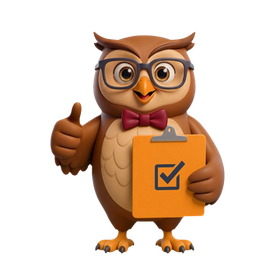
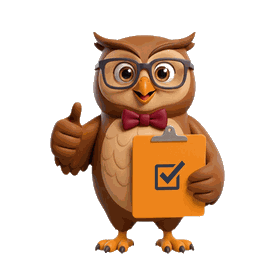
Center the owl on compare loading and drop the server stack.
Bake the mascot onto white/black overlays and sit a pulsing gray
contact shadow under its feet so it reads as a small 3D character.

diff --git a/mobile/components/home/LoadingOverlay.tsx b/mobile/components/home/LoadingOverlay.tsx
@@ -20,86 +20,67 @@ const THUMBS_LIGHT = require("../../assets/mascot/owl-thumbs-light.gif");
 const THUMBS_DARK = require("../../assets/mascot/owl-thumbs-dark.gif");
 const WALK_STILL = require("../../assets/mascot/owl-walk-still.png");
 const THUMBS_STILL = require("../../assets/mascot/owl-thumbs-still.png");
+const SHADOW_LIGHT = require("../../assets/mascot/owl-shadow-light.png");
+const SHADOW_DARK = require("../../assets/mascot/owl-shadow-dark.png");
 
 const THUMBS_MS = 2000;
 const THUMBS_CAP_MS = 2600;
 
-function ServerStack({ colors }: { colors: any }) {
-  const progress = useRef(new Animated.Value(0)).current;
-  const pulse = useRef(new Animated.Value(0)).current;
+function GroundShadow({
+  isDark,
+  phase,
+  reduceMotion,
+}: {
+  isDark: boolean;
+  phase: "loading" | "success";
+  reduceMotion: boolean;
+}) {
+  const pulse = useRef(new Animated.Value(0.5)).current;
 
   useEffect(() => {
-    Animated.loop(
-      Animated.timing(progress, {
-        toValue: 1,
-        duration: 900,
-        easing: Easing.linear,
-        useNativeDriver: true,
-      })
-    ).start();
-
-    Animated.loop(
+    if (reduceMotion) {
+      pulse.setValue(0.5);
+      return;
+    }
+    pulse.setValue(0);
+    const dur = phase === "success" ? 900 : 520;
+    const loop = Animated.loop(
       Animated.sequence([
-        Animated.timing(pulse, { toValue: 1, duration: 500, useNativeDriver: true }),
-        Animated.timing(pulse, { toValue: 0, duration: 500, useNativeDriver: true }),
+        Animated.timing(pulse, {
+          toValue: 1,
+          duration: dur,
+          easing: Easing.inOut(Easing.sin),
+          useNativeDriver: true,
+        }),
+        Animated.timing(pulse, {
+          toValue: 0,
+          duration: dur,
+          easing: Easing.inOut(Easing.sin),
+          useNativeDriver: true,
+        }),
       ])
-    ).start();
-  }, [progress, pulse]);
+    );
+    loop.start();
+    return () => {
+      loop.stop();
+      pulse.stopAnimation();
+    };
+  }, [phase, reduceMotion, pulse]);
 
-  const translateY = progress.interpolate({
+  const scaleX = pulse.interpolate({ inputRange: [0, 1], outputRange: [0.84, 1.06] });
+  const scaleY = pulse.interpolate({ inputRange: [0, 1], outputRange: [0.9, 1.1] });
+  const opacity = pulse.interpolate({
     inputRange: [0, 1],
-    outputRange: [0, -36],
+    outputRange: isDark ? [0.42, 0.78] : [0.38, 0.72],
   });
-
-  const topOpacity = progress.interpolate({
-    inputRange: [0, 0.8, 1],
-    outputRange: [1, 0, 0],
-  });
-  const topScale = progress.interpolate({
-    inputRange: [0, 1],
-    outputRange: [1, 0.85],
-  });
-
-  const bottomOpacity = progress.interpolate({
-    inputRange: [0, 0.2, 1],
-    outputRange: [0, 1, 1],
-  });
-  const bottomScale = progress.interpolate({
-    inputRange: [0, 1],
-    outputRange: [0.85, 1],
-  });
-
-  const led = pulse.interpolate({ inputRange: [0, 1], outputRange: [0.3, 1] });
-
-  const renderBlock = (opacity: any, scale: any) => (
-    <Animated.View
-      style={[
-        styles.serverBlock,
-        {
-          borderColor: colors.spotify,
-          backgroundColor: colors.spotifyWash,
-          opacity,
-          transform: [{ scale }],
-        },
-      ]}
-    >
-      <View style={{ flexDirection: "row", gap: 6 }}>
-        <View style={[styles.serverLine, { width: 24, backgroundColor: colors.spotify }]} />
-        <View style={[styles.serverLine, { width: 12, backgroundColor: colors.spotify }]} />
-      </View>
-      <Animated.View style={[styles.serverLed, { backgroundColor: colors.spotify, opacity: led }]} />
-    </Animated.View>
-  );
 
   return (
-    <View style={styles.serverContainer}>
-      <Animated.View style={{ transform: [{ translateY }] }}>
-        {renderBlock(topOpacity, topScale)}
-        {renderBlock(1, 1)}
-        {renderBlock(1, 1)}
-        {renderBlock(bottomOpacity, bottomScale)}
-      </Animated.View>
-    </View>
+    <Animated.View
+      pointerEvents="none"
+      style={[styles.shadow, { opacity, transform: [{ scaleX }, { scaleY }] }]}
+    >
+      <Image source={isDark ? SHADOW_DARK : SHADOW_LIGHT} style={styles.shadowImg} resizeMode="contain" />
+    </Animated.View>
   );
 }
 
@@ -120,32 +101,36 @@ function OwlMascot({
       scale.setValue(1);
       return;
     }
-    scale.setValue(0.92);
+    scale.setValue(0.94);
     Animated.spring(scale, { toValue: 1, friction: 6, tension: 120, useNativeDriver: true }).start();
   }, [phase, reduceMotion, scale]);
 
-  const source = reduceMotion || gifFailed
-    ? phase === "success"
-      ? THUMBS_STILL
-      : WALK_STILL
-    : phase === "success"
-      ? isDark
-        ? THUMBS_DARK
-        : THUMBS_LIGHT
-      : isDark
-        ? WALK_DARK
-        : WALK_LIGHT;
+  const source =
+    reduceMotion || gifFailed
+      ? phase === "success"
+        ? THUMBS_STILL
+        : WALK_STILL
+      : phase === "success"
+        ? isDark
+          ? THUMBS_DARK
+          : THUMBS_LIGHT
+        : isDark
+          ? WALK_DARK
+          : WALK_LIGHT;
 
   return (
-    <Animated.View style={[styles.mascotWrap, { transform: [{ scale }] }]}>
-      <Image
-        source={source}
-        style={styles.mascot}
-        resizeMode="contain"
-        accessibilityLabel={phase === "success" ? "Comparison ready" : "Owl checking products"}
-        onError={() => setGifFailed(true)}
-      />
-    </Animated.View>
+    <View style={styles.stage}>
+      <GroundShadow isDark={isDark} phase={phase} reduceMotion={reduceMotion} />
+      <Animated.View style={[styles.mascotLift, { transform: [{ scale }] }]}>
+        <Image
+          source={source}
+          style={styles.mascot}
+          resizeMode="contain"
+          accessibilityLabel={phase === "success" ? "Comparison ready" : "Owl checking products"}
+          onError={() => setGifFailed(true)}
+        />
+      </Animated.View>
+    </View>
   );
 }
 
@@ -246,7 +231,7 @@ export function LoadingOverlay({
         style={[
           styles.screen,
           {
-            backgroundColor: isDark ? "#2A2A2A" : "#D8D8D4",
+            backgroundColor: isDark ? "#000000" : "#FFFFFF",
             paddingTop: insets.top,
             paddingBottom: insets.bottom,
           },
@@ -254,7 +239,6 @@ export function LoadingOverlay({
       >
         <View style={styles.content}>
           <OwlMascot phase={phase} isDark={isDark} reduceMotion={reduceMotion} />
-          <ServerStack colors={colors} />
           <Animated.Text style={[styles.message, { opacity: phase === "success" ? 1 : msgOpacity, color: colors.ink }]}>
             {message}
           </Animated.Text>
@@ -279,43 +263,35 @@ const styles = StyleSheet.create({
     justifyContent: "center",
   },
   content: { alignItems: "center", width: "100%", paddingHorizontal: 40 },
-  mascotWrap: {
-    width: 132,
-    height: 132,
-    marginBottom: 8,
+  stage: {
+    width: 220,
+    height: 210,
+    alignItems: "center",
+    justifyContent: "flex-end",
+    marginBottom: 28,
+  },
+  shadow: {
+    position: "absolute",
+    bottom: 10,
+    width: 168,
+    height: 56,
     alignItems: "center",
     justifyContent: "center",
   },
-  mascot: {
-    width: 132,
-    height: 132,
+  shadowImg: {
+    width: 168,
+    height: 56,
   },
-  serverContainer: {
-    height: 100,
-    overflow: "hidden",
-    marginBottom: 32,
-    justifyContent: "flex-start",
-  },
-  serverBlock: {
-    width: 80,
-    height: 28,
-    borderRadius: 6,
-    borderWidth: 1.5,
-    flexDirection: "row",
+  mascotLift: {
+    width: 188,
+    height: 188,
     alignItems: "center",
-    paddingHorizontal: 10,
-    justifyContent: "space-between",
-    marginBottom: 8,
+    justifyContent: "center",
+    zIndex: 1,
   },
-  serverLine: {
-    height: 4,
-    borderRadius: 2,
-    opacity: 0.6,
-  },
-  serverLed: {
-    width: 6,
-    height: 6,
-    borderRadius: 3,
+  mascot: {
+    width: 188,
+    height: 188,
   },
   message: {
     ...type.body,
